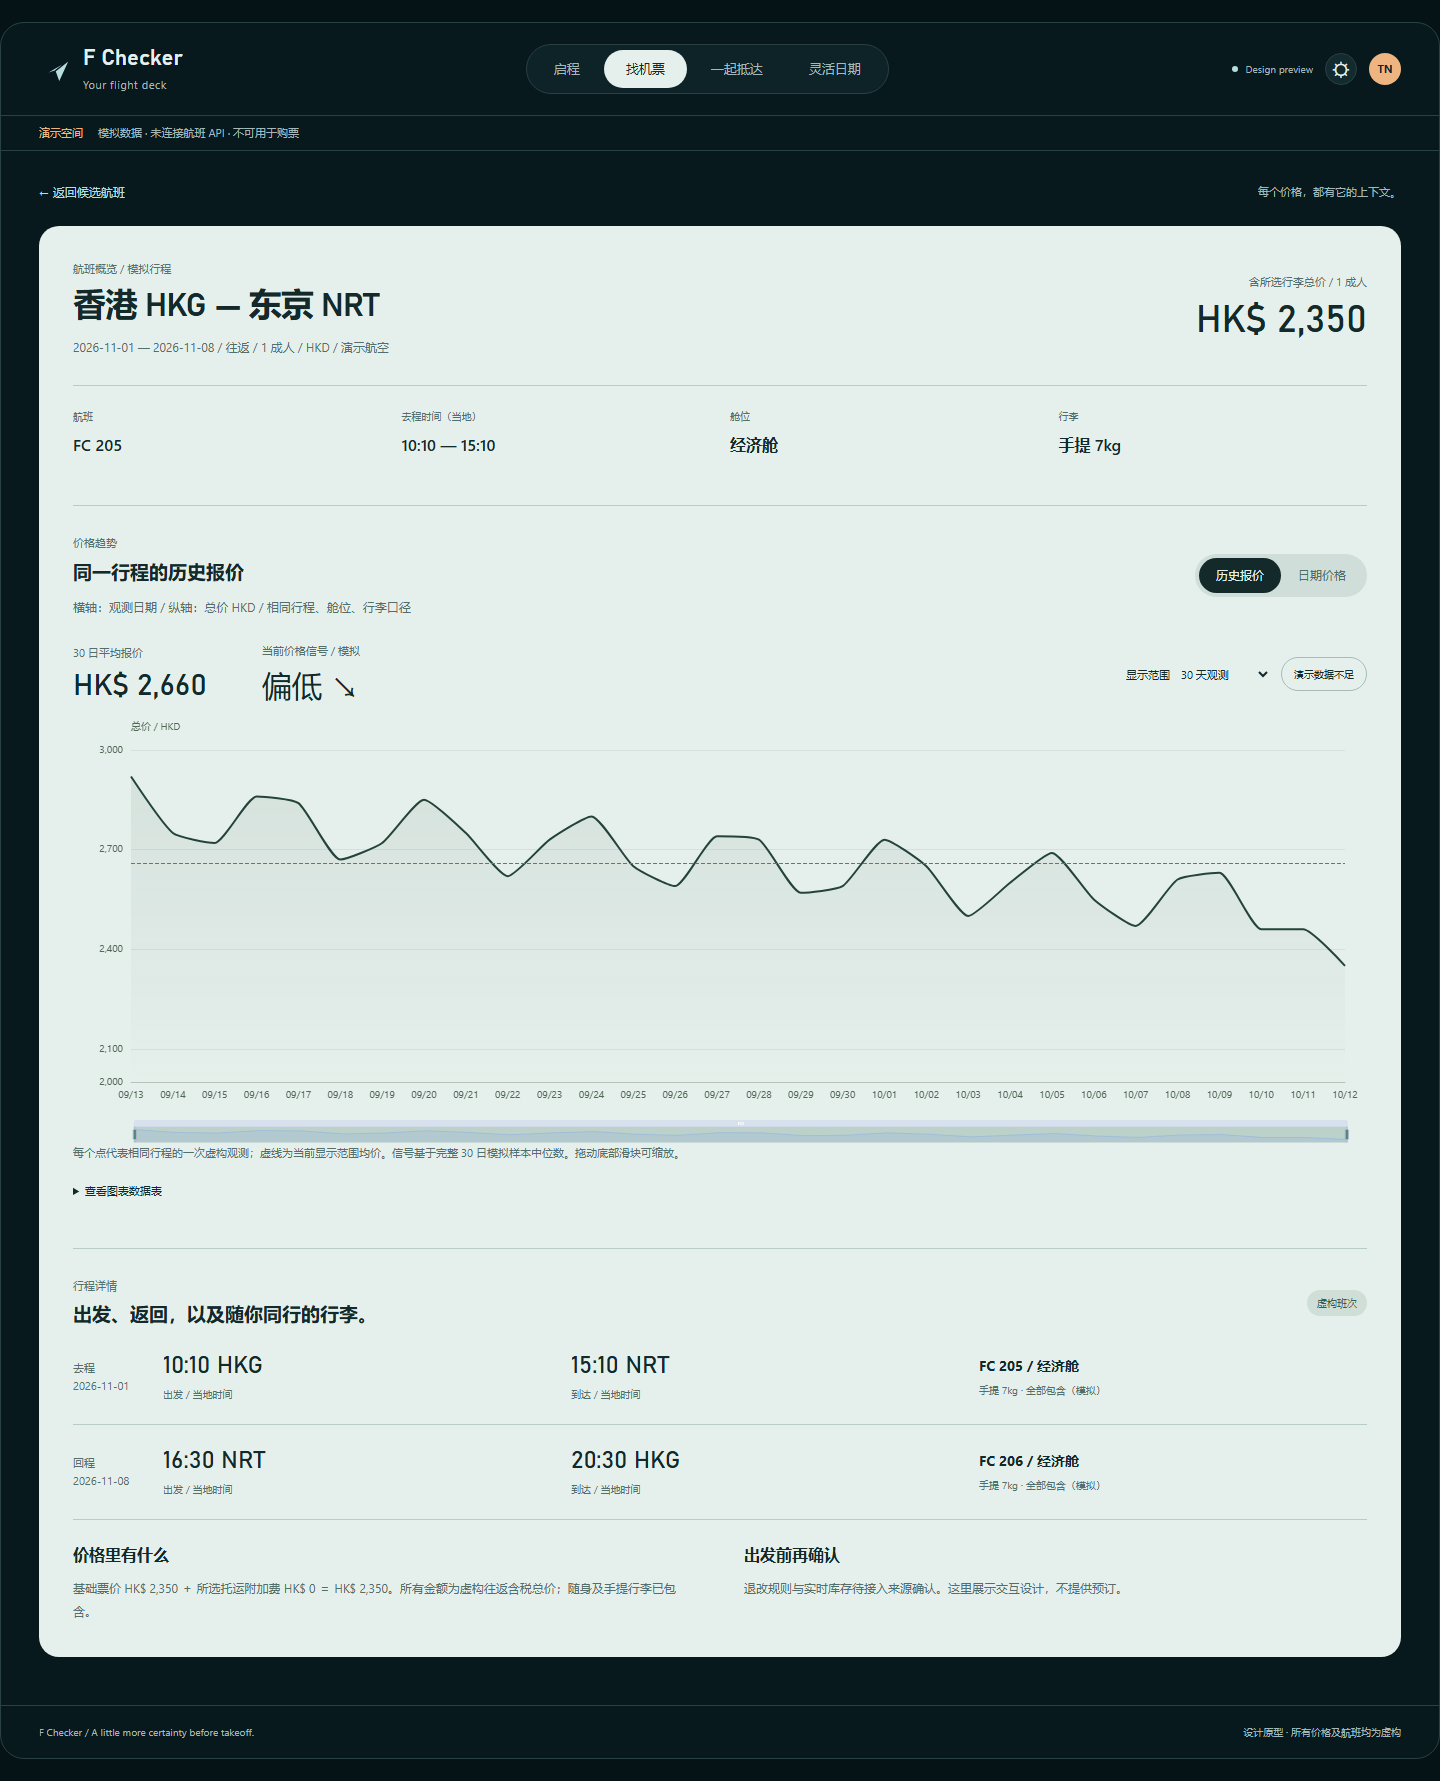
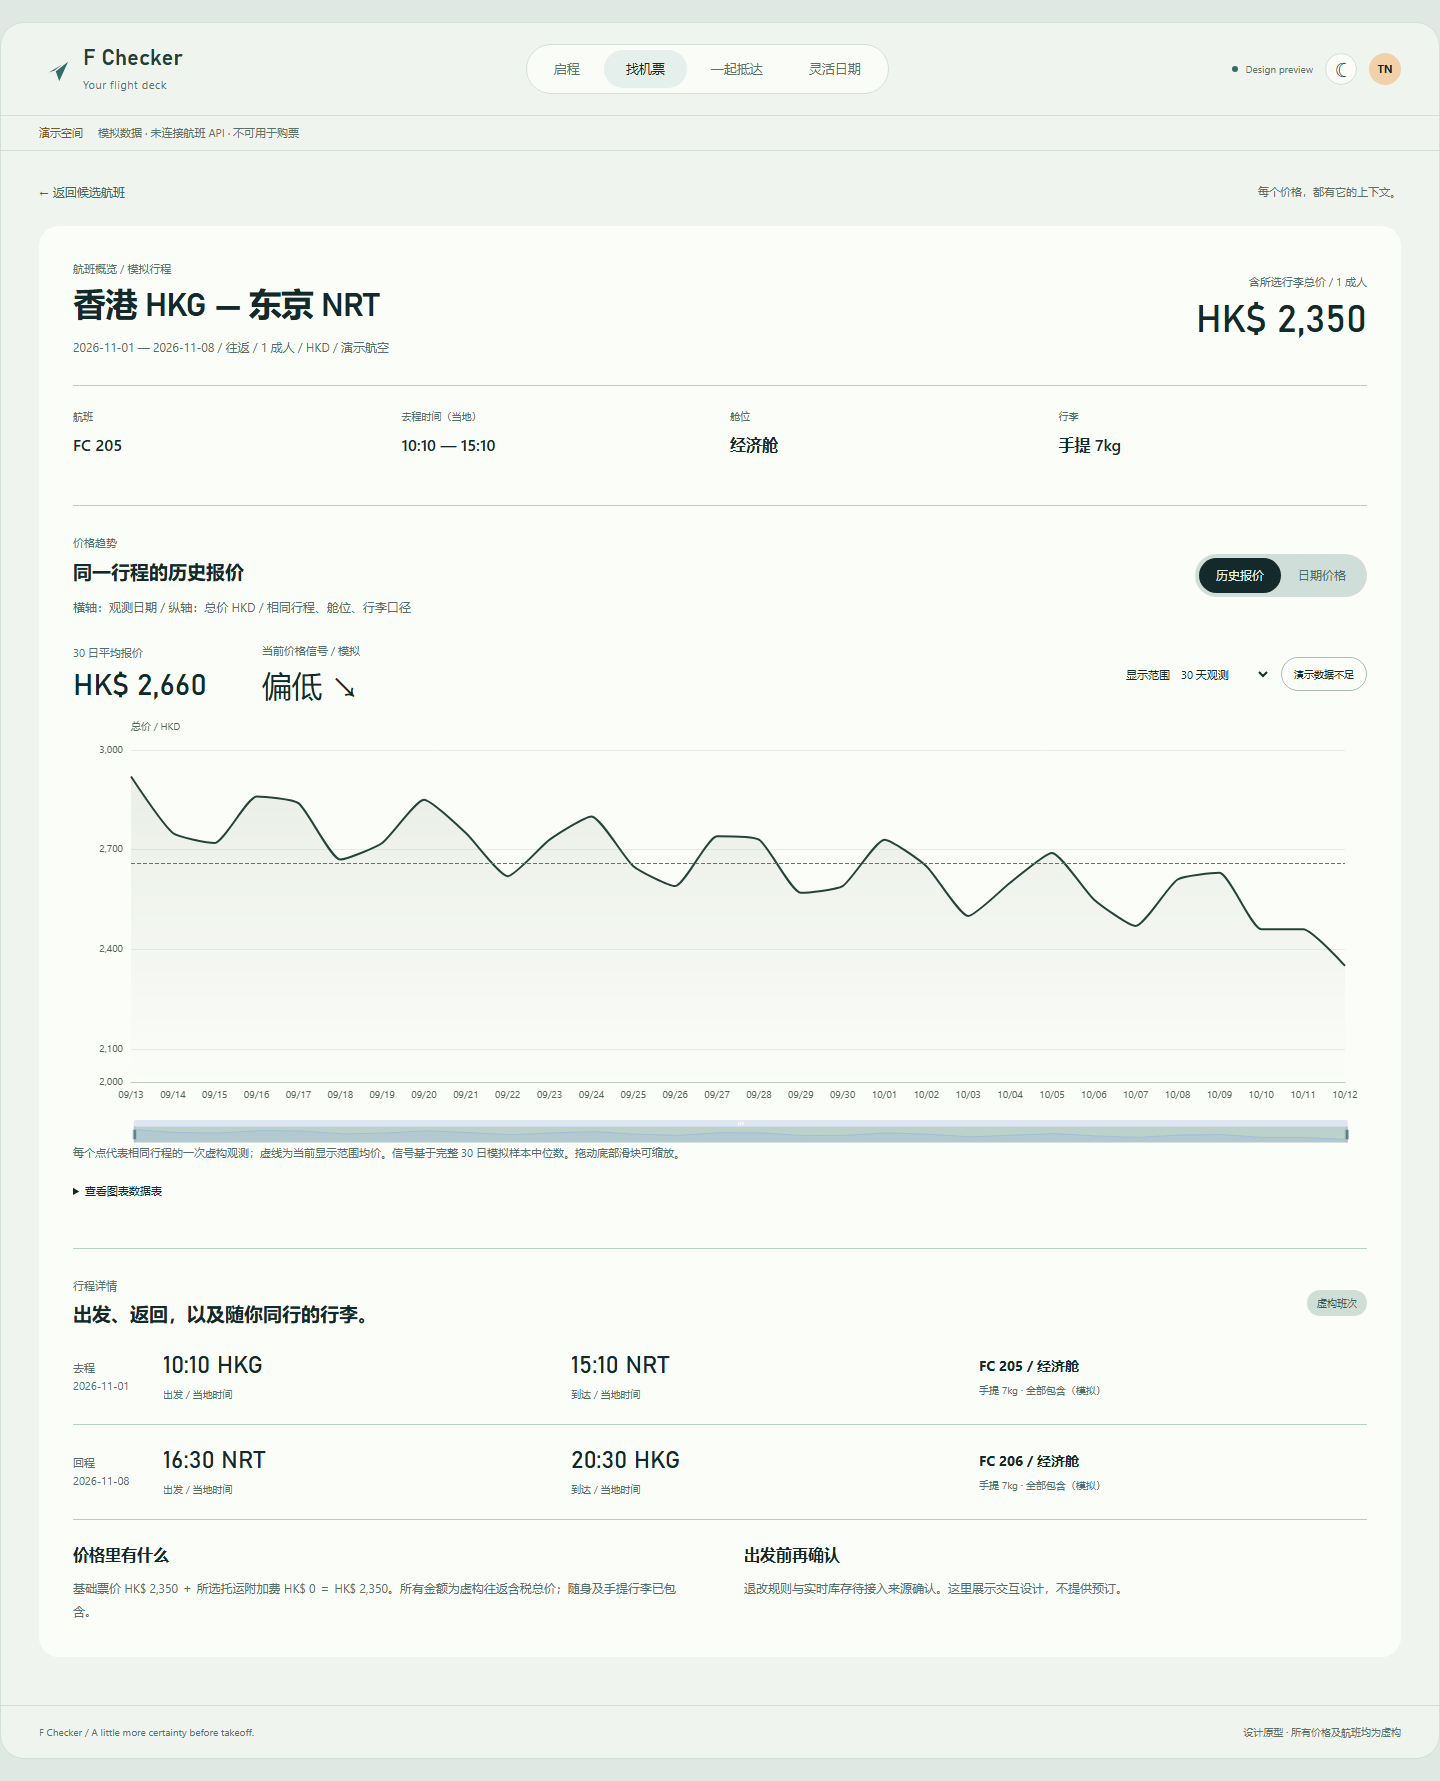
Use a softer daylight palette by default

Changed region(s): [[0.0, 0.0, 1.0, 1.0]]

diff --git a/docs/design/prototype.html b/docs/design/prototype.html
@@ -1,7 +1,7 @@
 <!doctype html>
 <html lang="zh-CN"><head><meta charset="utf-8"><meta name="viewport" content="width=device-width,initial-scale=1"><title>F Checker · Your flight deck</title><link rel="stylesheet" href="cockpit.css"><script defer src="vendor/echarts-5.6.0.min.js"></script><script defer src="cockpit.js"></script></head>
-<body><div class="app-shell">
-<header class="topbar"><a class="brand" href="#landing" aria-label="F Checker 首页"><svg viewBox="0 0 32 32" aria-hidden="true"><path d="M3 22 29 7 19 29 15 18 3 22Zm12-4L29 7"/></svg><span>F Checker<small>Your flight deck</small></span></a><nav aria-label="主导航"><span id="nav-pill" aria-hidden="true"></span><button data-view="landing" class="active">启程</button><button data-view="search">找机票</button><button data-view="meet">一起抵达</button><button data-view="flex">灵活日期</button></nav><div class="header-tools"><span class="preview-status"><i></i> Design preview</span><button id="theme-toggle" aria-label="切换浅色主题" title="切换主题">☼</button><span class="avatar">TN</span></div></header>
+<body class="light"><div class="app-shell">
+<header class="topbar"><a class="brand" href="#landing" aria-label="F Checker 首页"><svg viewBox="0 0 32 32" aria-hidden="true"><path d="M3 22 29 7 19 29 15 18 3 22Zm12-4L29 7"/></svg><span>F Checker<small>Your flight deck</small></span></a><nav aria-label="主导航"><span id="nav-pill" aria-hidden="true"></span><button data-view="landing" class="active">启程</button><button data-view="search">找机票</button><button data-view="meet">一起抵达</button><button data-view="flex">灵活日期</button></nav><div class="header-tools"><span class="preview-status"><i></i> Design preview</span><button id="theme-toggle" aria-label="切换深色主题" title="切换主题">☾</button><span class="avatar">TN</span></div></header>
 <div class="demo-notice"><span>演示空间</span> 模拟数据 · 未连接航班 API · 不可用于购票</div>
 <main>
 <section id="landing" class="view landing" aria-labelledby="landing-title">

diff --git a/docs/design/cockpit.css b/docs/design/cockpit.css
@@ -7,3 +7,28 @@ body.light{--air:#e4edeb;--panel:#f5f8f5;--line:#bdceca;--mist:#173431;--muted:#
 
 nav:has(.hovered) button.active:not(.hovered){color:var(--muted)}
 body.light .demo-notice>span{color:#815520}
+
+/* Default daylight palette, requested 2026-10-12. Dark mode remains available. */
+body.light{--air:#f0f4ef;--panel:#fcfdf9;--line:#d3dfd8;--mist:#223f3e;--muted:#5b716a;--ice:#346d68;--base:#e0e8e3;--field:#fafcf7;--soft:#e2eee5;--apricot:#f3d1a8;--butter:#f8edc9}
+body.light .entry{background:#f9fcf5ed;color:#223f3e;border-color:#c9d9d0;box-shadow:0 18px 48px #325c5012}
+body.light .entry-search{background:#e4efe1}
+body.light .entry-meet{background:#fdfaf0f2}
+body.light .entry-flex{background:#e6efedf2}
+body.light .entry:hover,body.light .entry:focus-visible{color:#14292a;border-color:#dab481}
+body.light .entry-search:hover{background:#e4efe1}
+body.light .entry .meet-route em{color:#95632f}
+body.light .mini-calendar i{background:#bbd2cb}
+body.light .mini-calendar i:nth-child(3n){background:#8eb5a7}
+body.light .mini-calendar i:nth-child(8){background:#e6bf83}
+body.light .airspace{opacity:1}
+body.light .airspace svg>g[stroke]{stroke:#537d76}
+body.light .airspace svg>g[fill="#b6dedd"]{fill:#537d76}
+body.light .airspace svg>g[font-size]{fill:#58766f}
+body.light #grid path{stroke:#5e8178;stroke-opacity:.13}
+body.light #halo stop:first-child{stop-color:#aac7b9;stop-opacity:.35}
+body.light .detail-surface{background:#fbfdf8}
+body.light .flex-best{background:#d6e9dc}
+body.light .coverage-bar{background:#d5e4da}
+body.light .range-meter i{background:#254d44}
+body.light .person-avatar.amber{color:#223f3e}
+body.light .person-tabs button.selected,body.light .matrix-table button.picked{color:#fff}

diff --git a/docs/design/cockpit-direction.md b/docs/design/cockpit-direction.md
@@ -72,3 +72,7 @@ Revised the initial all-dark cockpit proposal after seeing the references: the m
 滚动背景速度0.18，飞机反向补偿，前景更慢；背景模糊上限2.5px。只模糊装饰，不模糊价格/文字/控件。窄屏和减少动态效果模式移除非必要动效。不把产品介绍的长篇钉住叙事或图片跟随预览强加到密集比价流程。
 
 用户随后要求不用Superpowers、直接创意执行。以可审阅原型为交付，未继续调用Superpowers工作流。
+
+## Daylight palette — current default
+
+2026-10-12 用户要求更浅色系。默认采用浅雾灰画布 #f0f4ef、近白面板 #fcfdf9、柔和青绿 #346d68、暖杏 #f3d1a8 与淡奶油 #f8edc9；正文为深灰绿 #223f3e。三个首页入口也改为浅色，航线/网格改为低饱和深青，确保浅背景上可辨。推荐卡保留暖色视觉重心；详情近白、日期推荐浅鼠尾草绿。深色主题仍可由右上角切换。
